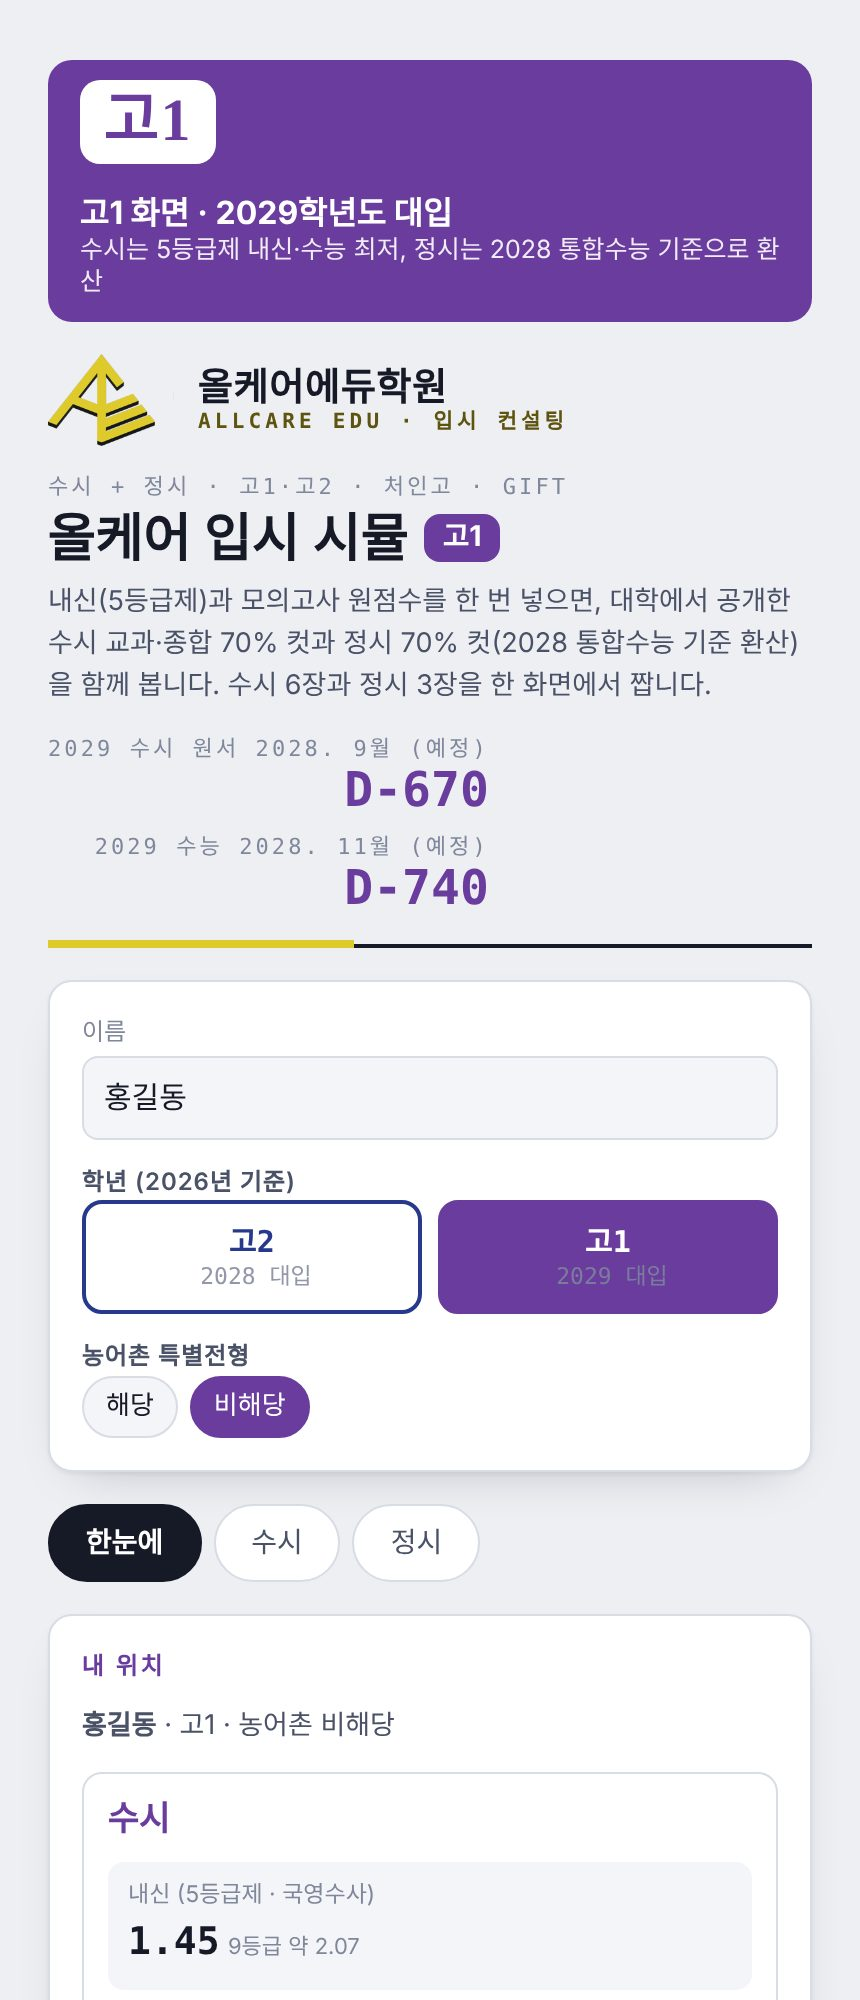
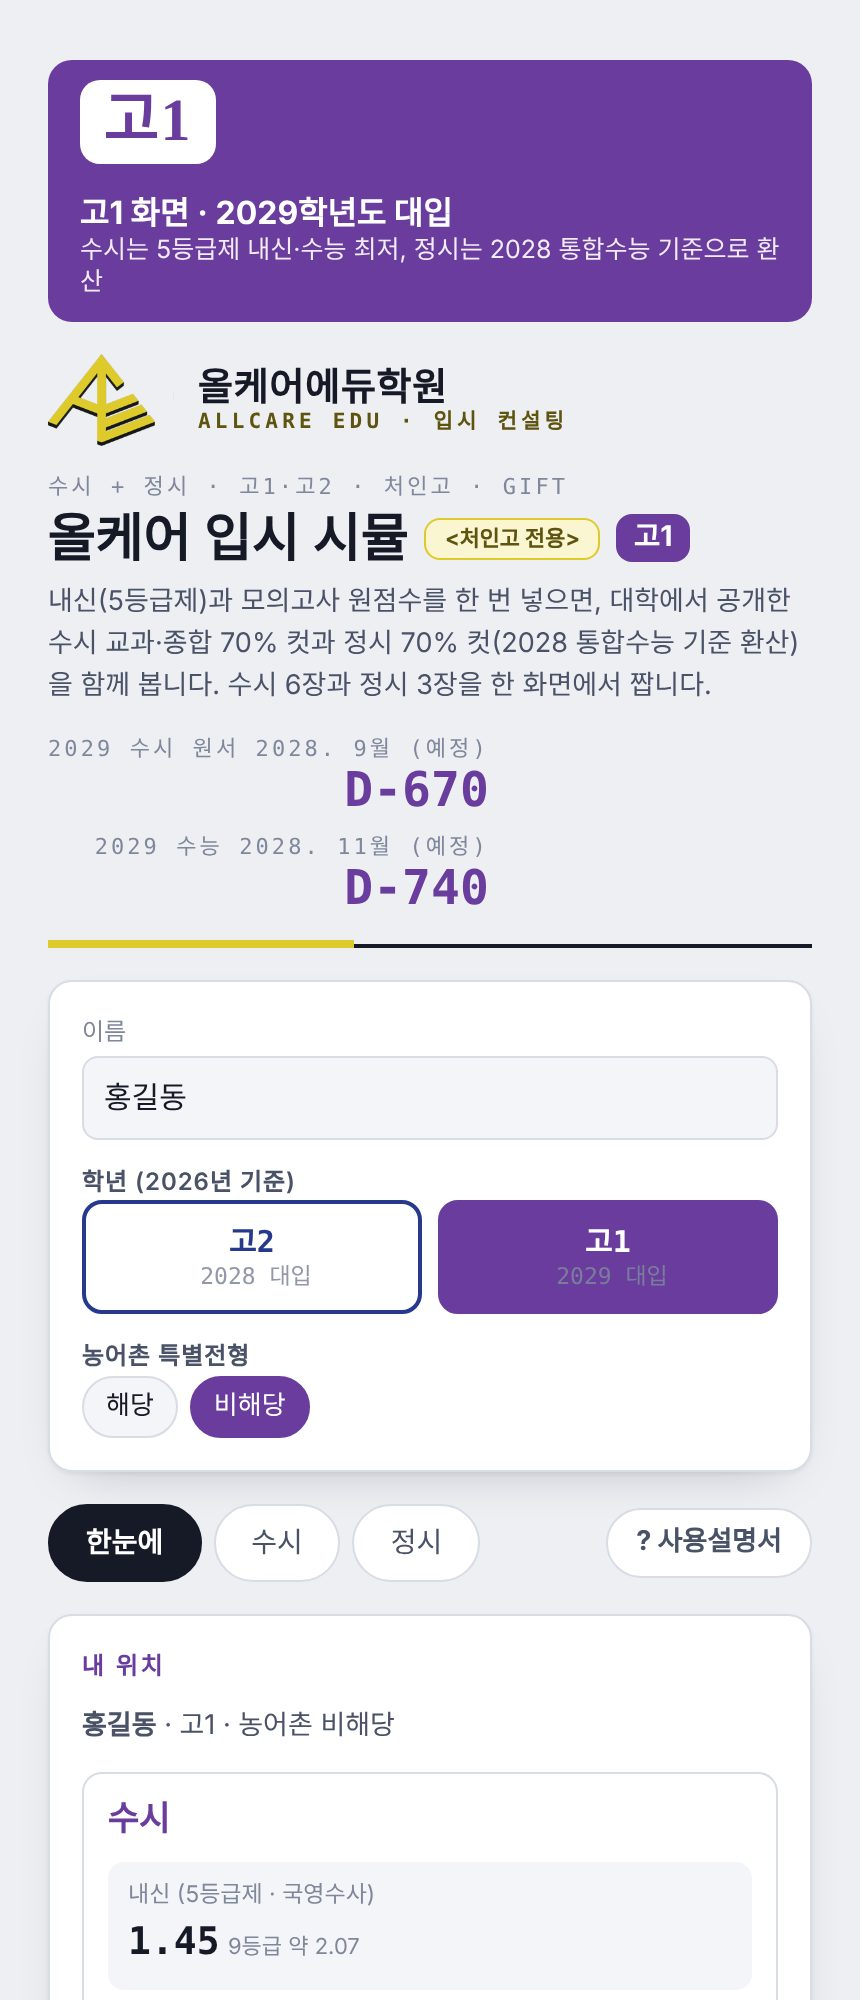
설명서: 만든 사람의 말, 예시 성적(통사·통과 3등급) · 수시 최저 등급을 정시 등급컷과 똑같이
Claude-Session: https://claude.ai/code/session_01XGQ8LrLhV2HUaEG4xWrpcN

Changed region(s): [[0.4837, 0.248, 0.8163, 0.279], [0.786, 0.744, 0.907, 0.775]]

diff --git a/ipsi/guide/index.html b/ipsi/guide/index.html
@@ -39,6 +39,15 @@ a{color:var(--accent)}
 .back{display:inline-flex;align-items:center;gap:6px;font-weight:600;font-size:14px;text-decoration:none;background:var(--ink);color:var(--surface);padding:9px 16px;border-radius:999px}
 h1{font-family:var(--f-display);font-size:clamp(28px,7vw,38px);line-height:1.25;margin:6px 0 8px;letter-spacing:-.01em}
 .cheoin{display:inline-block;vertical-align:middle;font-family:var(--f-body);font-size:.5em;font-weight:700;color:#5E5410;background:#FBF6D2;border:1.5px solid #DECA2B;border-radius:8px;padding:3px 10px;position:relative;top:-3px;white-space:nowrap}
+.letter{position:relative;background:var(--surface);border:1px solid var(--line);border-top:4px solid #DECA2B;border-radius:16px;padding:22px 20px 20px;margin:4px 0 20px;box-shadow:var(--shadow)}
+.letter .kick{font-size:12px;letter-spacing:.14em;color:var(--ink-3);font-weight:600;margin:0 0 6px}
+.letter h2{font-family:var(--f-display);font-size:clamp(21px,5.4vw,26px);line-height:1.4;margin:0 0 14px;color:var(--ink)}
+.letter p{color:var(--ink-2);margin:0 0 12px;line-height:1.85}
+.letter p b{color:var(--ink)}
+.letter .q{border-left:3px solid #DECA2B;padding:2px 0 2px 14px;margin:16px 0;color:var(--ink);font-weight:600}
+.letter .sign{display:flex;justify-content:flex-end;align-items:baseline;gap:10px;margin-top:16px;flex-wrap:wrap}
+.letter .sign span{font-size:12.5px;color:var(--ink-3)}
+.letter .sign b{font-family:var(--f-display);font-size:20px;color:var(--ink)}
 .only{background:#FBF6D2;border:1.5px solid #DECA2B;border-radius:14px;padding:12px 16px;margin:0 0 18px;color:#3A3300}
 .only b{color:#5E5410}
 .lead{color:var(--ink-2);margin:0 0 18px}
@@ -98,6 +107,17 @@ dl.faq dd{margin:4px 0 0;color:var(--ink-2)}
   </div>
 
   <h1>입시 시뮬 <span class="cheoin">&lt;처인고 전용&gt;</span><br>사용설명서</h1>
+  <article class="letter" aria-labelledby="letter-h">
+    <p class="kick">만든 사람의 말</p>
+    <h2 id="letter-h">갈 수 있는 길은 분명히 있습니다.<br>다만 보이지 않았을 뿐입니다.</h2>
+    <p>저는 서울에서 태어나, 이곳으로 이사 오기 전까지 평생을 서울에서만 살았습니다. 그런데 우리 아이들이 학창 시절을 고스란히 보낸 한숲에 어느새 적잖이 정이 들었습니다.</p>
+    <p>2024년 9월 학원을 열고 3년 동안 학생들을 가르치며 느낀 것이 있습니다. 대치·목동·분당 같은 학군지와 비교할 때 한숲시티에 가장 부족한 것은 <b>학생들의 실력도, 의지도 아닌 입시 정보</b>였습니다. 대학에 갈 수 있는 길은 두고 안 되는 길만 붙들다 보니, 학생은 지치고 끝내 포기하는 안타까운 모습을 너무 많이 보았습니다.</p>
+    <p>이런 빈틈을 이용하는 일부 학원과 공부방, 과외도 적지 않았습니다. 고3 문과 여학생들을 부추겨 내신 시험과도 상관없는 공부로 3학년 1학기와 그 앞 겨울방학을 보내게 하고, 수능 최저를 맞출 마지막 기회마저 놓치게 만드는 경우를 보았습니다. 수강생이 줄어들면 예비 고1 신입생을 받으려고, 1학기 기말고사가 끝나고 수시 원서를 쓸 무렵 예고도 없이 수업을 닫아 버려 수학 중심으로 계획을 세웠던 학생들을 큰 혼란에 빠뜨렸다는 이야기도 올해 또 들었습니다. 무엇보다 안타까운 것은 이런 일이 해마다 되풀이된다는 점이었습니다.</p>
+    <p class="q">공부할 의지와 꿈이 있는 학생, 그리고 그 곁의 부모님이 더 이상 이런 일을 겪지 않으시기를 바랐습니다.</p>
+    <p>제대로 된 길을 찾아 희망을 품고 꿈을 이루기를 바라는 마음으로, 지난 15년 동안 학생들을 가르치며 쌓은 경험과 실제 입시 데이터를 바탕으로 이 시뮬을 만들었습니다. 작은 도구이지만, 한숲의 학생들이 자기 길을 조금 더 일찍, 조금 더 분명하게 보는 데 보탬이 되었으면 합니다.</p>
+    <div class="sign"><span>올케어에듀학원 원장</span><b>김영민</b></div>
+  </article>
+
   <p class="lead">고1·고2가 지금 성적으로 갈 수 있는 대학을 수시와 정시로 함께 보는 도구입니다. 처음 쓰는 학생은 「1. 시작하기」부터 차례로 보세요. 궁금한 부분만 찾을 때는 아래 목차를 누르면 됩니다.</p>
 
   <div class="only"><b>처인고 학생에게 맞춘 시뮬입니다.</b> 처인고는 <b>일반고</b>이고 <b>농어촌 특별전형 대상 학교</b>입니다. 그래서 이 시뮬은

diff --git a/ipsi/index.html b/ipsi/index.html
@@ -1079,7 +1079,9 @@ function engG(r){if(r===""||r==null||isNaN(r))return null;r=+r;return r>=90?1:Ma
 function hisG(r){if(r===""||r==null||isNaN(r))return null;r=+r;var c=[40,35,30,25,20,15,10,5];for(var i=0;i<8;i++)if(r>=c[i])return i+1;return 9;}
 var EXN={jun:"6월",sep:"9월",oct:"10월"};
 function fromJungsi(){var j=load(KEY28);if(!j||!j.grade||!j.exam)return null;var t=C[j.grade+"_"+j.exam];if(!t)return null;var adj=+st.adj||0;
-  function g(key,raw,ovp){var p=pctOf(t[key],raw,ovp);return p==null?null:gByPct(Math.max(0,p+adj));}
+  function g(key,raw,ovp){var tt=t[key];var hasP=ovp!==""&&ovp!=null&&!isNaN(ovp);
+    if(!adj&&!hasP&&tt&&tt.cuts&&raw!==""&&raw!=null&&!isNaN(raw)){var r=+raw,c=tt.cuts.map(function(x){return x.slice();}).sort(function(x,y){return y[0]-x[0];});for(var i=0;i<c.length;i++)if(r>=c[i][0])return i+1;return 9;}
+    var p=pctOf(tt,raw,ovp);return p==null?null:gByPct(Math.max(0,p+adj));}
   return {g:{K:g("kor",j.kraw,j.kpct),M:g("math",j.mraw,j.mpct),E:engG(j.eraw),C:g("soc",j.t1raw,j.t1pct),S:g("sci",j.t2raw,j.t2pct),H:hisG(j.hraw)},name:j.name,grade:j.grade,exam:j.exam};}
 
 /* ---------- 최저 ---------- */
